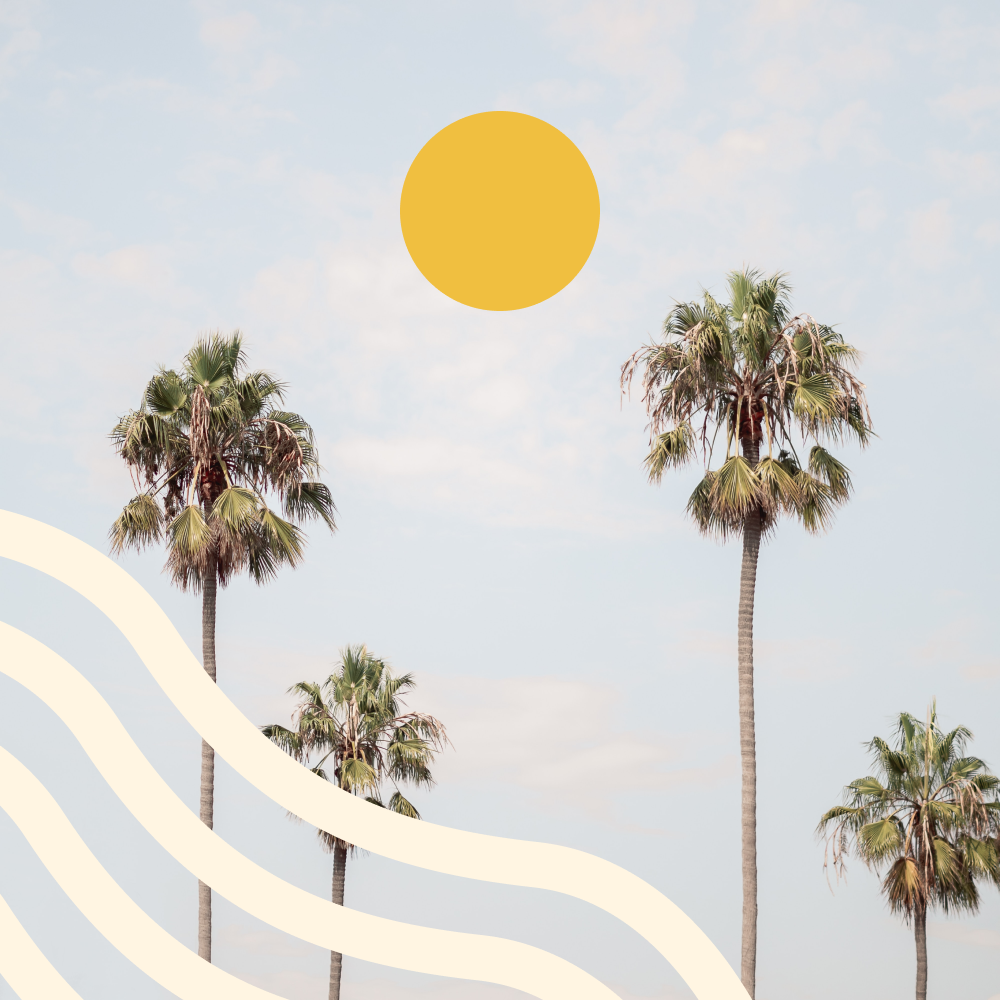
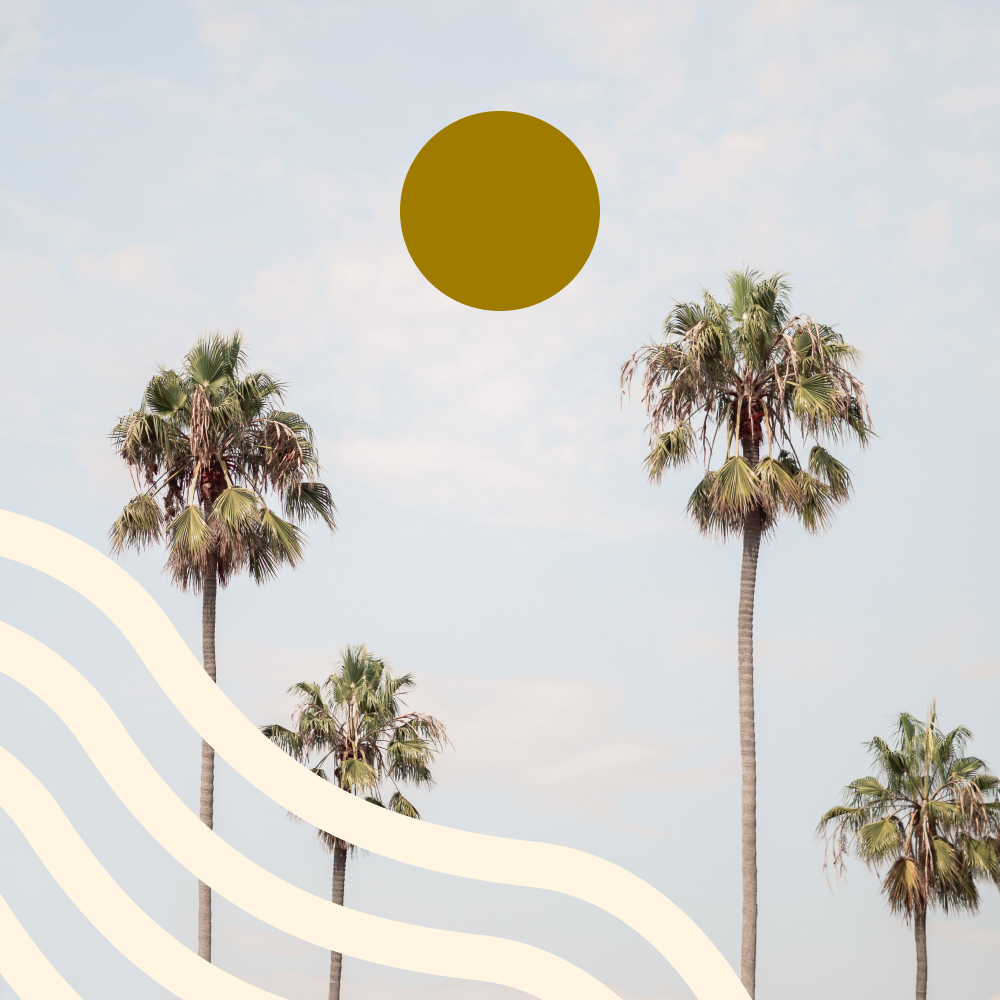
Cleaned up design on home page

Changed region(s): [[0.403, 0.093, 0.62, 0.31]]

diff --git a/src/components/sections/WhoWeAre.tsx b/src/components/sections/WhoWeAre.tsx
@@ -12,11 +12,17 @@ import { Card } from "../Card";
 
 export const WhoWeAre = () => {
   const bg = useColorModeValue("brand.wave", "brand.mauve");
+  const palmsImg = useColorModeValue(
+    "/media/palms.png",
+    "/media/palms-sunset.png"
+  );
   return (
     <Flex
       justifyContent="center"
       px={[4, 8]}
       py={[16, 24]}
+      borderRadius={16}
+      mb={16}
       boxSizing="border-box"
       bg={bg}
       position="relative"
@@ -36,9 +42,15 @@ export const WhoWeAre = () => {
           gridTemplateColumns={["1fr", "1fr", "1fr", "1fr 1fr"]}
           gridGap={[4, 8, 12]}
         >
-          <Image src="/media/palms.png" boxShadow="lg" width="100%" mb="4" />
+          <Image
+            src={palmsImg}
+            boxShadow="lg"
+            width="100%"
+            mb="4"
+            borderRadius={16}
+          />
 
-          <Flex flexDirection="column" py={[10, 10, 8, 8]}>
+          <Flex flexDirection="column" pt={[4, 4, 0]}>
             <Heading as="h2" size="3xl" color="brand.royalMoss">
               We're more than a wellness destination.
             </Heading>
@@ -72,7 +84,7 @@ export const WhoWeAre = () => {
         >
           <Card
             icon="icons/heart-dark.svg"
-            title="Passionate Clinicians"
+            title="Passionate"
             description="Nothing invigorates us more than helping our patients lead their healthiest, happiest lifestyles."
           />
           <Card
@@ -84,6 +96,11 @@ export const WhoWeAre = () => {
             icon="icons/users-dark.svg"
             title="Human-centered"
             description="We're people-persons - we value each and every patient at our practice and love meeting folks from all different walks of life."
+          />{" "}
+          <Card
+            icon="icons/users-dark.svg"
+            title="Holistic"
+            description="As stewards of both ancient Eastern medicine traditions and contemporary advancementse, we embrace the interconnectedness of mind, body, and spirit."
           />
         </Grid>
       </Box>

diff --git a/src/components/Navbar.tsx b/src/components/Navbar.tsx
@@ -7,8 +7,9 @@ import {
   Flex,
   UnorderedList,
   ListItem,
-  Link,
+  Link as ChakraLink,
 } from "@chakra-ui/react";
+import Link from "next/link";
 import { motion } from "framer-motion";
 import { useState } from "react";
 import { ColorModeButton } from "./ColorModeButton";
@@ -116,27 +117,27 @@ export const Navbar: React.FC = () => {
         >
           <UnorderedList p={0} listStyleType="none">
             <ListItem mb={2}>
-              <Link display="flex" href="/">
+              <ChakraLink display="flex" href="/" as={Link}>
                 <Image mr={3} src="icons/home-dark.svg" /> Home
-              </Link>
+              </ChakraLink>
             </ListItem>
             <ListItem mb={2}>
-              <Link display="flex" href="/team">
+              <ChakraLink display="flex" href="/team" as={Link}>
                 <Image mr={3} src="icons/about-dark.svg" />
                 About Us
-              </Link>
+              </ChakraLink>
             </ListItem>
             <ListItem mb={2}>
-              <Link display="flex" href="">
+              <ChakraLink display="flex" href="" as={Link}>
                 <Image mr={3} src="icons/circles-dark.svg" />
                 Services
-              </Link>
+              </ChakraLink>
             </ListItem>
             <ListItem>
-              <Link display="flex" href="">
+              <ChakraLink display="flex" href="" as={Link}>
                 <Image mr={3} src="icons/contact-dark.svg" />
                 Contact
-              </Link>
+              </ChakraLink>
             </ListItem>
           </UnorderedList>
           <Box

diff --git a/src/app/services/page.tsx b/src/app/services/page.tsx
@@ -1,14 +1,10 @@
 "use client";
 
 import { Navbar } from "@/components/Navbar";
-import { WhoWeAre } from "@/components/sections/WhoWeAre";
-import { OurTeam } from "@/components/sections/OurTeam";
-
-import { Hero } from "@/components/sections/Hero";
 import { Services } from "@/components/sections/Services";
 import { Box, useColorModeValue } from "@chakra-ui/react";
 
-export default function Home() {
+export default function Page() {
   const bg = useColorModeValue("brand.sand", "brand.royalMoss");
 
   return (
@@ -23,11 +19,13 @@ export default function Home() {
       justifyContent="center"
       boxSizing="border-box"
     >
-      <Box maxWidth="1440px" position="relative" overflowX="hidden">
-        <Navbar />
-        <Hero />
-        <WhoWeAre />
-        <OurTeam />
+      <Navbar />
+      <Box
+        maxWidth="1440px"
+        position="relative"
+        overflowX="hidden"
+        boxShadow="lg"
+      >
         <Services />
       </Box>
     </Box>

diff --git a/src/components/sections/Services.tsx b/src/components/sections/Services.tsx
@@ -1,10 +1,10 @@
 import {
   Flex,
   useColorModeValue,
-  Box,
-  Image,
+  Text,
   Heading,
   Grid,
+  Divider,
 } from "@chakra-ui/react";
 import { Card } from "../Card";
 export const Services = () => {
@@ -30,10 +30,18 @@ export const Services = () => {
         <Heading as="h2" size="3xl" width="100%">
           Our Services
         </Heading>
+        <Divider borderColor="brand.royalMoss" mb={8} mt={4} />
+        <Text as="p">
+          We treat a ton of different conditions, including but not limited to:
+          chronic pain, musculoskeletal injuries, insomnia, anxiety, depression,
+          migraines, autoimmune conditions, gastrointestinal diseases, women’s
+          health, and dermatology
+        </Text>
         <Grid
           gridTemplateColumns={["1fr", "1fr", "1fr 1fr"]}
           width={["100%"]}
           gridGap={4}
+          pt={8}
         >
           <Card
             icon="icons/needles-dark.svg"

diff --git a/src/components/TeamCard.tsx b/src/components/TeamCard.tsx
@@ -45,6 +45,7 @@ export const TeamCard: React.FC<ITeamCardProps> = ({
       }}
       position="relative"
       overflow="hidden"
+      borderRadius={16}
     >
       <Image
         src={image}
@@ -53,6 +54,7 @@ export const TeamCard: React.FC<ITeamCardProps> = ({
         boxShadow="md"
         objectFit="cover"
         transition="0.15s ease all"
+        borderRadius={16}
       />
       <Box
         position="absolute"
@@ -83,6 +85,7 @@ export const TeamCard: React.FC<ITeamCardProps> = ({
         left="0"
         transition="0.25s ease all"
         cursor="pointer"
+        borderRadius={16}
       >
         <Text as="p">Meet Dr. {name.split(" ")[2]} 👋</Text>
       </Flex>

diff --git a/src/components/Card.tsx b/src/components/Card.tsx
@@ -9,7 +9,7 @@ interface ICardProps {
 
 export const Card: React.FC<ICardProps> = ({ title, description, icon }) => {
   return (
-    <Box py={12} borderRadius={2} color="brand.royalMoss">
+    <Box py={8} borderRadius={2} color="brand.royalMoss">
       {icon && <Image src={icon} pb={4} />}
       <Heading as="h3" size="xl" pb={4}>
         {title}

diff --git a/src/components/sections/OurTeam.tsx b/src/components/sections/OurTeam.tsx
@@ -20,6 +20,8 @@ export const OurTeam = () => {
       justifyContent="flex-start"
       alignItems="flex-start"
       boxSizing="border-box"
+      borderRadius={16}
+      mb={8}
     >
       <Heading as="h2" size="2xl">
         The TIDAL Team

diff --git a/src/app/team/page.tsx b/src/app/team/page.tsx
@@ -25,6 +25,8 @@ export default function Page() {
         position="relative"
         overflowX="hidden"
         boxShadow="lg"
+        pt={16}
+        bg={bg}
       >
         <OurTeam />
       </Box>
